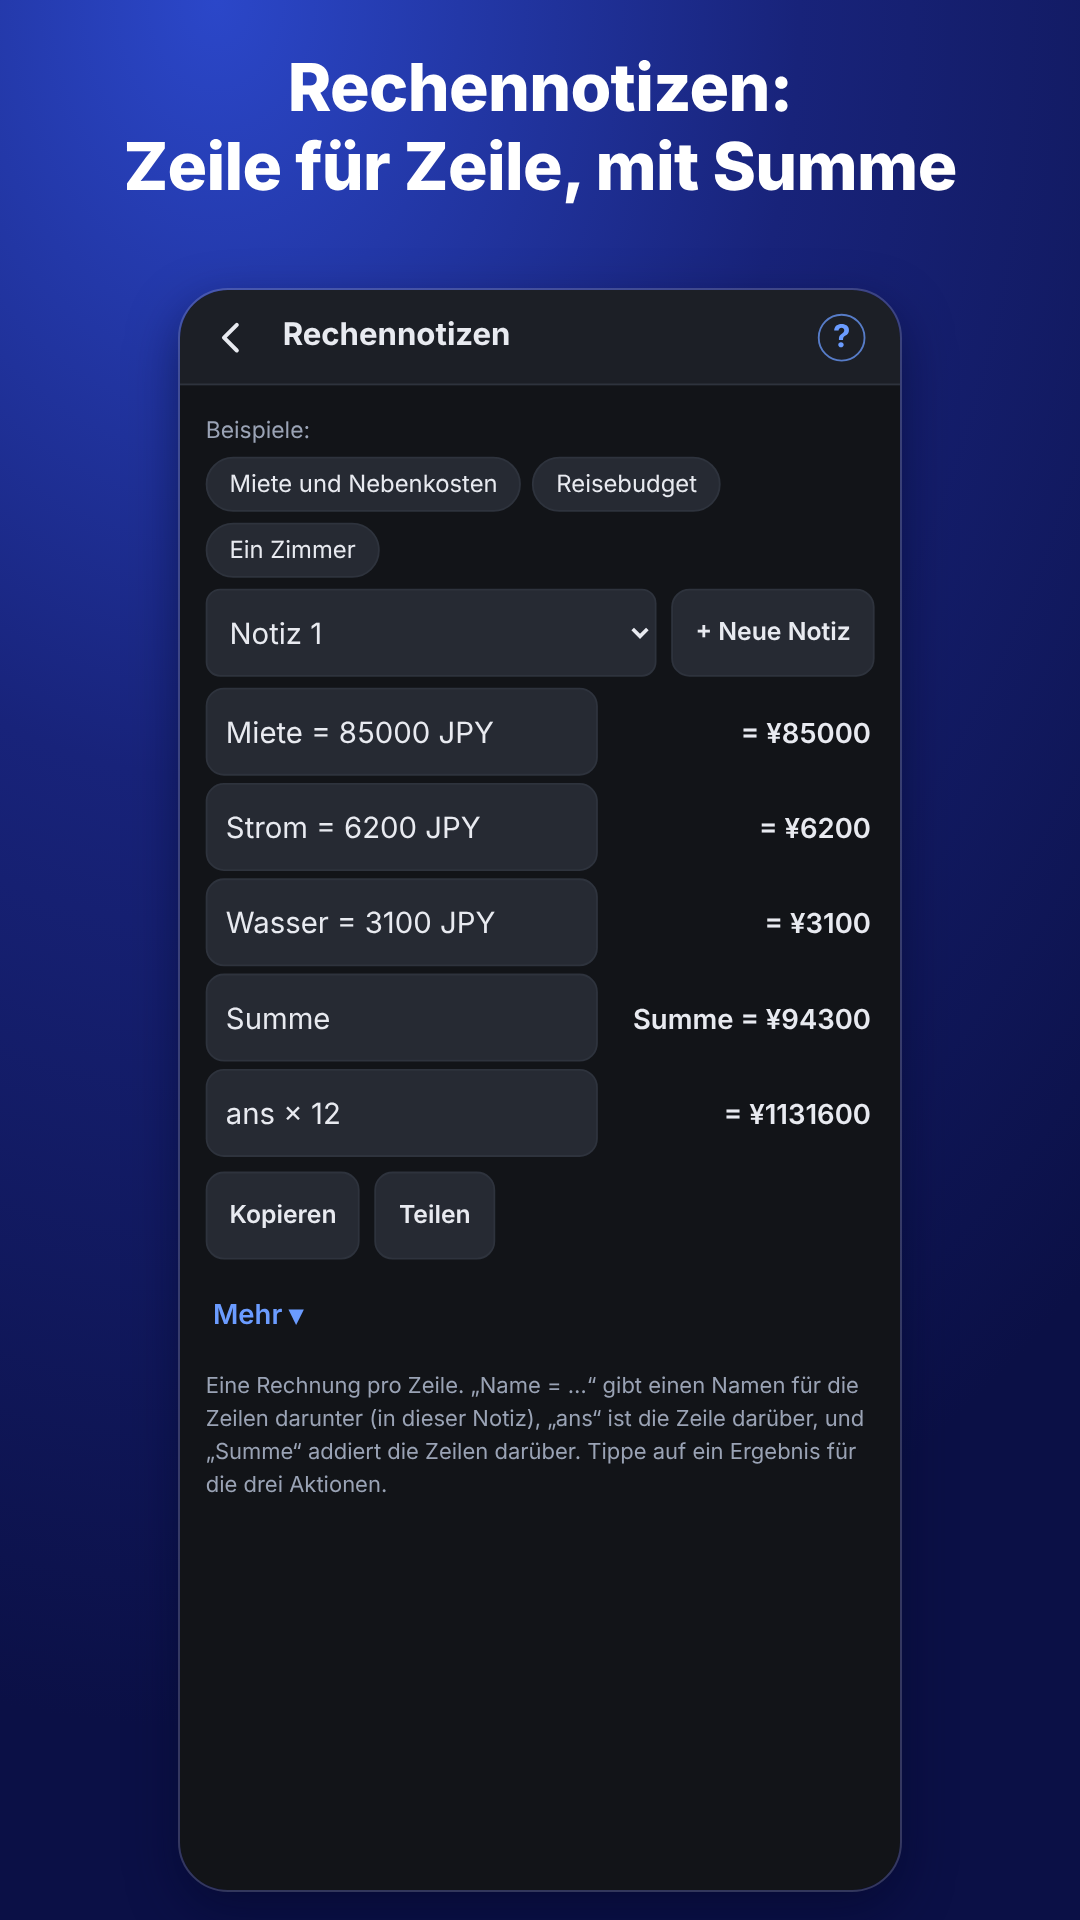
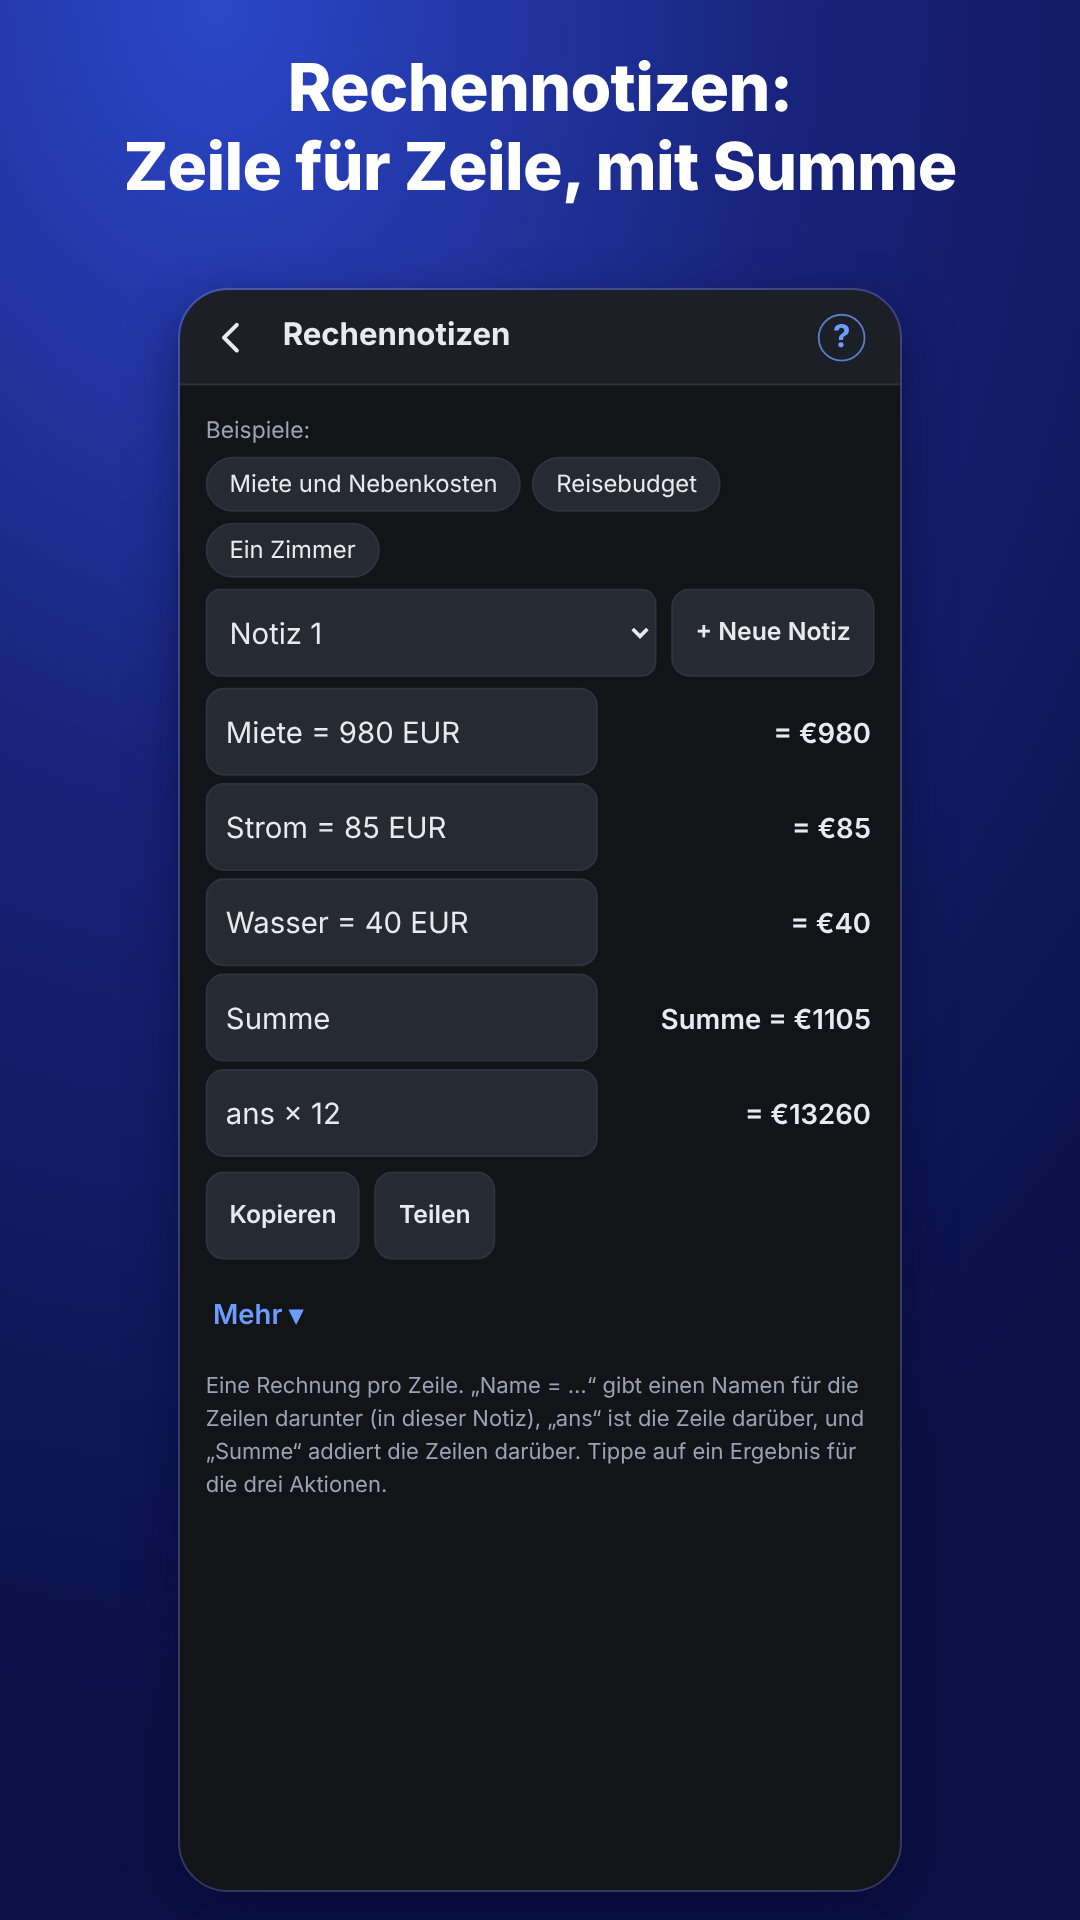
WIP store 1.12 M2: all store pictures (10 sets), feature graphics; notes in local money
- store/screenshots-1.12/<set>/: the rest of the sets (fr, fr-CA, ko, zh-TW).
- The notes picture of every set but ja taken again with the region's money
  (a test server with the engine's currency of the region; the app's own
  example is in yen in every language, decision 67).
- store/feature-graphic-1.12-{fr,ko,zh-TW}.png, video thumbnails.
- store/qa-1.12.md: number formats per set; store/tools/README.md: currency.

Claude-Session: https://claude.ai/code/session_016GjcfMjgiRMsG5ZqGgTEHf

diff --git a/store/qa-1.12.md b/store/qa-1.12.md
@@ -40,16 +40,18 @@
 
 | セット | 地域 | 数の書き方 | 確かめたこと |
 |---|---|---|---|
-| ja | ja-JP | 1,234.5 | 画像 1〜8 |
-| en | en-US | 1,234.5 | 画像 1〜8 |
-| en-GB | en-GB | 1,234.5 | — |
+| ja | ja-JP | 1,234.5 | 1 枚目：100 km/h to mph ≈ 62.13711922 mph、12.705 坪。値段 1,458円 |
+| en | en-US | 1,234.5 | 1 枚目：96.56064 km/h、19.05 mm。計算メモ：$1450 … Total = $1630 |
+| en-GB | en-GB | 1,234.5 | 計算メモ：£ |
 | de | de-DE | 1.234,5 | 1 枚目：62,13711922 mph、5,869604401、2,4 m × 1,8 m × 0,15 m to L = 648 L。引数の区切りは「;」で表示（integrate(x^2 sin(x); 0; pi)） |
-| es | es-ES | 1.234,5 | — |
-| es-419 | es-MX | 1,234.5 | — |
-| fr | fr-FR | 1 234,5 | — |
-| fr-CA | fr-CA | 1 234,5 | — |
-| ko | ko-KR | 1,234.5 | — |
-| zh-TW | zh-TW | 1,234.5 | — |
+| es | es-ES | 1.234,5 | 1 枚目：62,13711922 mph、648 L。値段 1.458。計算メモ：€ |
+| es-419 | es-MX | 1,234.5 | 計算メモ：MXN |
+| fr | fr-FR | 1 234,5 | 1 枚目：62,13711922 mph。輪郭から回転体 13 948,67138 mm³。計算メモ：€ |
+| fr-CA | fr-CA | 1 234,5 | 計算メモ：CAD 1650 … Total = CAD 1785 |
+| ko | ko-KR | 1,234.5 | 計算メモ：₩650000 … 합계 = ₩725000 |
+| zh-TW | zh-TW | 1,234.5 | 1 枚目：30 坪 to m² ≈ 99.17355372 m²。値段 1,458 |
+
+計算エンジンの「その地域のお金」（端末では地域の通貨。テストのサーバーは円で動くので、ほかの地域の計算メモの画像と動画は、その地域の通貨にしたサーバーで撮り直した）。計算メモの例そのものはどの言語でも円なので（要判断 67）、最初の 3 行の金額をその地域の通貨で打ち直して撮りました。
 
 掲載情報の文の中の数も、地域の書き方にしました（de・es-ES・fr の例は小数点「,」、200.000（de）・200 000（es-ES・fr）・200,000（es-419・en）など）。
 

diff --git a/store/tools/README.md b/store/tools/README.md
@@ -41,6 +41,11 @@ python3 store/tools/assets_check.py --videos $W/out
 python3 store/tools/listing_check.py                        # the words on pictures and in subtitles
 ```
 
+The engine's own currency is set by the test server (on a phone it is the currency of the region). The
+calculation notes keep amounts in that currency, so the notes pictures and the notes scene of the videos are
+taken with a server in the region's currency: en USD, en-GB GBP, de/es/fr EUR, es-419 MXN, fr-CA CAD, ko KRW,
+zh-TW TWD (ja: JPY), e.g. `node store/tools/shots.js http://127.0.0.1:8803/ de phone notes`.
+
 The videos (`*.mp4`) are not committed: they are large and are sent to the owner as files.
 When the app's screens change, make the pictures and the videos again; the headlines and the narration
 are in `captions.json` and `video-plan.json`.
